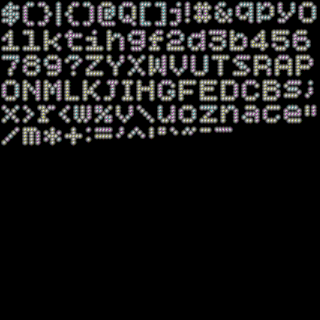
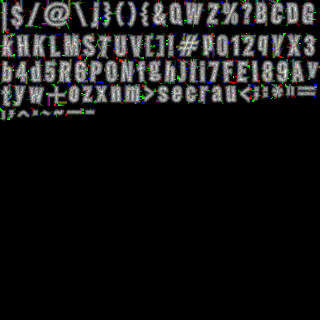
Little bit of cleaning and added improved Menu Scene and fixed some bugs, also changed text font

diff --git a/3DACTG/CMenu.cpp b/3DACTG/CMenu.cpp
@@ -7,13 +7,12 @@ CMenu::CMenu(CDirectX9& pDx9, CDirectX11& pDx11, HWND hWnd, CTime& pTime, CScene
 	, m_pMenuBGSprite(nullptr)
 	, m_SelectedOption(MENU_OPTION_START)
 {
-	m_pDx11->SetDepth(false); // Disable depth for 2D menu
 }
 
 CMenu::~CMenu()
 {
-	SAFE_DELETE(m_pMenuBG);
 	SAFE_DELETE(m_pMenuFont);
+	SAFE_DELETE(m_pMenuBG);
 }
 
 void CMenu::Create()
@@ -21,6 +20,7 @@ void CMenu::Create()
 	// Create font for menu text
 	m_pMenuFont = new CFont();
 	m_pMenuBG = new CUIObject();
+	m_pMenuOption = new CUIObject();
 	m_pMenuBGSprite = new CSprite2D;
 }
 
@@ -31,21 +31,30 @@ HRESULT CMenu::LoadData()
 	{
 		return E_FAIL;
 	}
-
 	
-	CSprite2D::SPRITE_STATE ss = {
-		{WND_W + 50, WND_H + 50},
-		{357,291},
-		{357,291},
+	CSprite2D::SPRITE_STATE BackGroundSS = {
+		{WND_W, WND_H},
+		{610,570},
+		{604,560},
 	};
 	
+	CSprite2D::SPRITE_STATE MenuBGSS = {
+		{150, 60},
+		{400,450},
+		{360,80},
+	};
+
 	if (FAILED(m_pMenuBGSprite->Init(*m_pDx11,
-		_T("Data\\Texture\\MenuBG.png"), ss)))
+		_T("Data\\Texture\\UI\\MenuBG.png"), BackGroundSS)))
 	{
 		return E_FAIL;
 	}
+	
+	//m_pMenuBG->SetPosition(static_cast<float>(WND_W / 2 - 175), static_cast<float>(WND_H / 2 - 100), 0.0f);	
 
 	m_pMenuBG->AttachSprite(*m_pMenuBGSprite);
+
+	return S_OK;
 
 }
 
@@ -93,50 +102,48 @@ void CMenu::Update()
 
 void CMenu::Draw()
 {
-	m_pDx11->SetDepth(false);
+	// Draw text labels for the menu
+	m_pDx11->SetDepth(false); // Disable depth for 2D menu
 	m_pMenuBG->Draw();
 
-	// Draw text labels for the menu
-	if (m_pMenuFont)
+	m_pMenuFont->SetColor(1.0f, 0.1f, 0.05f);
+	m_pMenuFont->SetAlpha(1.0f);
+
+	// Draw title
+	TCHAR titleText[64];
+	_stprintf_s(titleText, _T("MYSTERY MAZE"));
+	m_pMenuFont->Render(titleText, static_cast<float>(WND_W / 2 - 130), 90.0f, 60.0f);
+
+	// Draw start button text
+	if (m_SelectedOption == MENU_OPTION_START)
 	{
-		m_pMenuFont->SetColor(1.0f, 1.0f, 1.0f);
-		m_pMenuFont->SetAlpha(1.0f);
-
-		// Draw title
-		TCHAR titleText[64];
-		_stprintf_s(titleText, _T("3D ACTION SHOOTING GAME"));
-		m_pMenuFont->Render(titleText, static_cast<float>(WND_W / 2 - 200), 90.0f, 40.0f);
-
-		// Draw start button text
-		if (m_SelectedOption == MENU_OPTION_START)
-		{
-			m_pMenuFont->SetColor(1.0f, 1.0f, 0.0f); // Yellow for selected
-		}
-		else
-		{
-			m_pMenuFont->SetColor(1.0f, 1.0f, 1.0f); // White
-		}
-		TCHAR startText[64];
-		_stprintf_s(startText, _T("> START GAME"));
-		m_pMenuFont->Render(startText, static_cast<float>(WND_W / 2 - 100), static_cast<float>(WND_H / 2 - 20), 35.0f);
-
-		// Draw exit button text
-		if (m_SelectedOption == MENU_OPTION_EXIT)
-		{
-			m_pMenuFont->SetColor(1.0f, 1.0f, 0.0f); // Yellow for selected
-		}
-		else
-		{
-			m_pMenuFont->SetColor(1.0f, 1.0f, 1.0f); // White
-		}
-		TCHAR exitText[64];
-		_stprintf_s(exitText, _T("> EXIT"));
-		m_pMenuFont->Render(exitText, static_cast<float>(WND_W / 2 - 100), static_cast<float>(WND_H / 2 + 80), 35.0f);
-		
-		// Draw instructions
-		m_pMenuFont->SetColor(0.7f, 0.7f, 0.7f);
-		TCHAR instructText[128];
-		_stprintf_s(instructText, _T("Use UP/DOWN arrows to navigate, ENTER to select"));
-		m_pMenuFont->Render(instructText, static_cast<float>(WND_W / 2 - 300), static_cast<float>(WND_H - 50), 20.0f);
+		m_pMenuFont->SetColor(1.0f, 0.2f, 0.06f); // RED for selected
 	}
+	else
+	{
+		m_pMenuFont->SetColor(1.0f, 1.0f, 1.0f); // White
+	}
+	TCHAR startText[64];
+	_stprintf_s(startText, _T("> START GAME"));
+	m_pMenuFont->Render(startText, static_cast<float>(WND_W / 2 - 100), static_cast<float>(WND_H / 2 - 20), 40.0f);
+
+	// Draw exit button text
+	if (m_SelectedOption == MENU_OPTION_EXIT)
+	{
+		m_pMenuFont->SetColor(1.0f, 0.2f, 0.06f); // RED for selected
+	}
+	else
+	{
+		m_pMenuFont->SetColor(1.0f, 1.0f, 1.0f); // White
+	}
+	TCHAR exitText[64];
+	_stprintf_s(exitText, _T("> EXIT"));
+	m_pMenuFont->Render(exitText, static_cast<float>(WND_W / 2 - 100), static_cast<float>(WND_H / 2 + 80), 40.0f);
+		
+	// Draw instructions
+	m_pMenuFont->SetColor(0.7f, 0.7f, 0.7f);
+	TCHAR instructText[128];
+	_stprintf_s(instructText, _T("Use UP/DOWN arrows to navigate, ENTER to select"));
+	m_pMenuFont->Render(instructText, static_cast<float>(WND_W / 2 - 210), static_cast<float>(WND_H - 50), 35.0f);
+
 }

diff --git a/3DACTG/CTest.cpp b/3DACTG/CTest.cpp
@@ -188,7 +188,7 @@ HRESULT CTest::LoadData()
 	m_pGround->SetPosition(0.f, 0.f, 0.f);
 
 	m_pPlayer->AttachMesh(*m_pWomanMesh);
-	m_pPlayer->SetScale(0.8f);
+	m_pPlayer->SetScale(0.6f);
 	m_pPlayer->SetPosition(0.f,0.f,0.f);
 
 	for(int i = 0; i < ENEMY_COUNT; ++i)

diff --git a/3DACTG/CMenu.h b/3DACTG/CMenu.h
@@ -23,6 +23,7 @@ private:
 	// Font for menu text
 	CFont* m_pMenuFont;
 	CUIObject* m_pMenuBG;
+	CUIObject* m_pMenuOption;
 	CSprite2D* m_pMenuBGSprite;
 	
 	// Menu state
